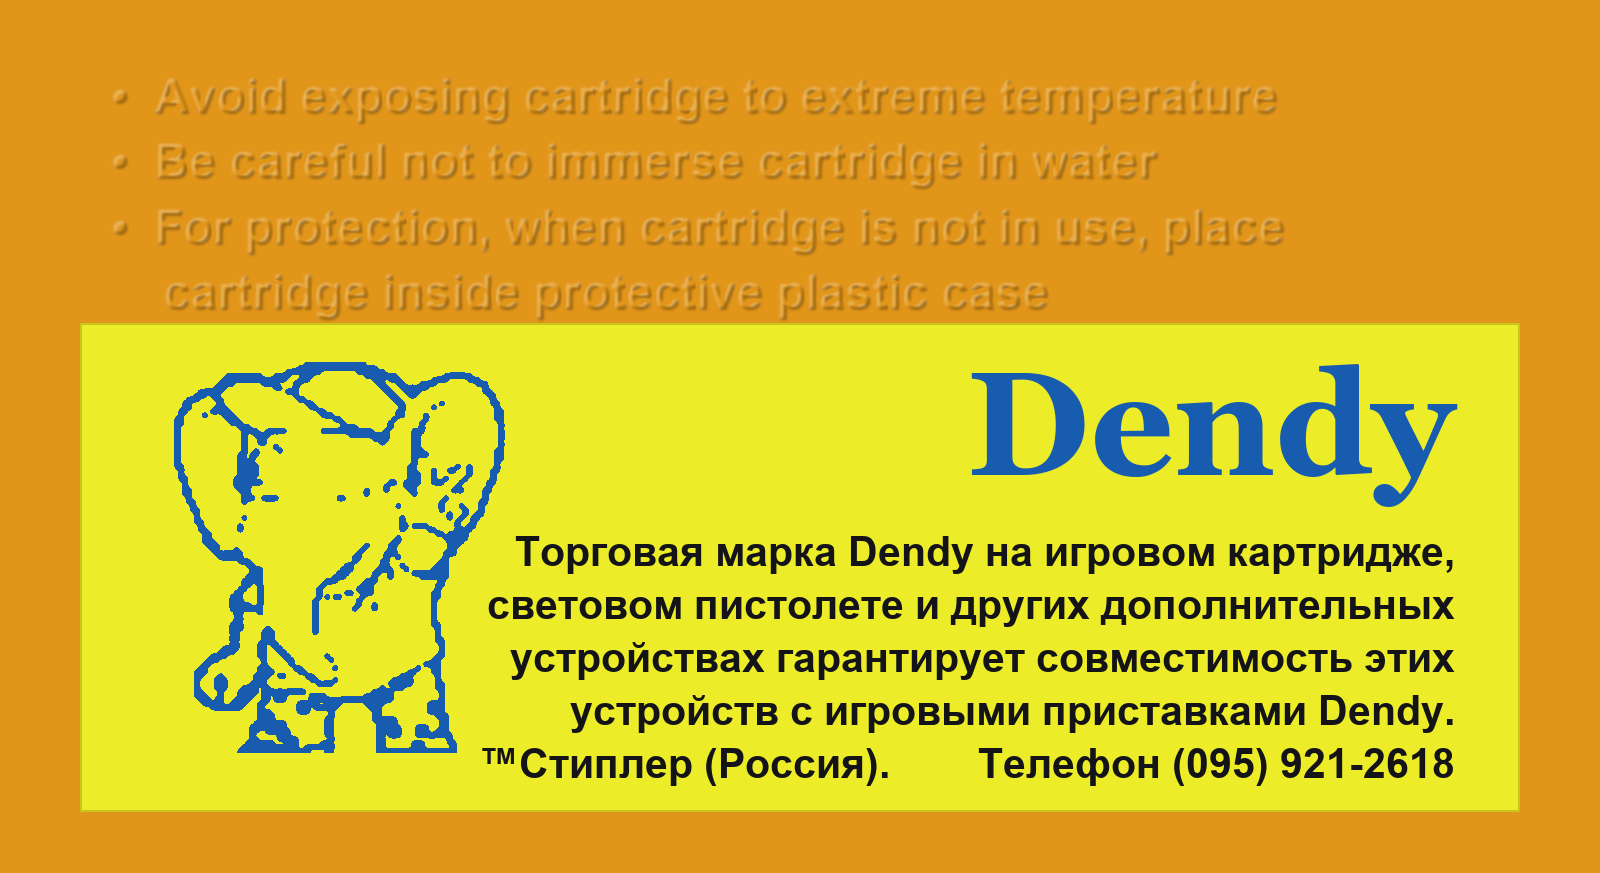
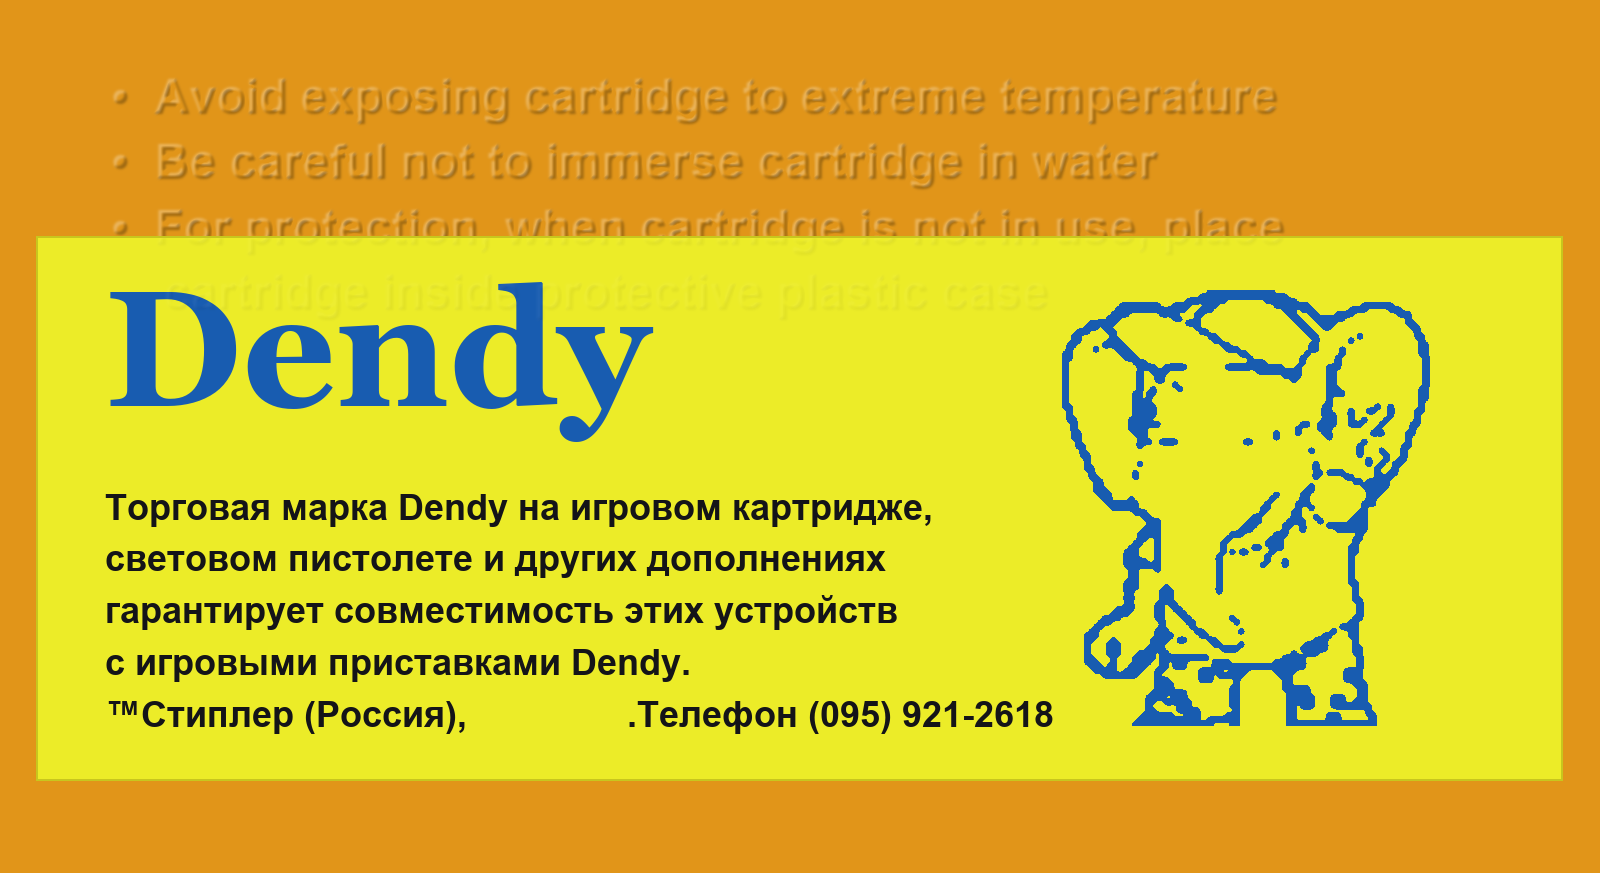
Dendy back panel: real sticker layout, optional private photo sticker
The redrawn Steepler sticker now follows the real layout: wordmark top
left, the notice below it with its real wording, and the elephant on the
right. It is sized as an 84 x 30 mm sticker. make_dendy_back_panel.py
--sticker pastes a supplied sticker image, and the shell builder's
--back-panel / --back-panel-credit install that privately built panel
with its credit recorded in the model's sourceReference. Photographic
stickers stay out of the repository.

Changed region(s): [[0.0, 0.2474, 1.0, 0.9278]]

diff --git a/scripts/make_dendy_back_panel.py b/scripts/make_dendy_back_panel.py
@@ -3,16 +3,19 @@
 Real Dendy cartridges carry moulded bulleted care text on the back panel with Steepler's
 yellow warranty sticker pasted over it: a blue line-art elephant, the blue
 "Dendy" wordmark, the Russian compatibility notice and Steepler's phone line.
-The thin sticker paper lets the relief beneath show faintly. This is a flat
-redraw of that layout in the shell colour, not a photograph.
+The thin sticker paper lets the relief beneath show faintly. By default the
+sticker is a flat redraw of the real layout (wordmark top left, notice below it,
+elephant on the right). --sticker pastes a supplied sticker image instead, such
+as a crop of a reference model's photographic texture; that output belongs with
+the private model, not in this repository.
 
 The panel spans PANEL_SIZE metres of the shell's back (see
 build_nes_cartridge_models.py); the PNG keeps that aspect.
 
-Usage: python -I make_dendy_back_panel.py OUT.png
+Usage: python -I make_dendy_back_panel.py OUT.png [--sticker STICKER.png]
 """
+import argparse
 from pathlib import Path
-import sys
 
 from PIL import Image, ImageChops, ImageDraw, ImageFilter, ImageFont
 
@@ -29,10 +32,10 @@ CARE = ['•  Avoid exposing cartridge to extreme temperature',
         '•  For protection, when cartridge is not in use, place',
         '    cartridge inside protective plastic case']
 NOTICE = ['Торговая марка Dendy на игровом картридже,',
-          'световом пистолете и других дополнительных',
-          'устройствах гарантирует совместимость этих',
-          'устройств с игровыми приставками Dendy.',
-          '™Стиплер (Россия).        Телефон (095) 921-2618']
+          'световом пистолете и других дополнениях',
+          'гарантирует совместимость этих устройств',
+          'с игровыми приставками Dendy.',
+          '™Стиплер (Россия),                .Телефон (095) 921-2618']
 
 
 def elephant_lineart(height):
@@ -57,14 +60,12 @@ def sticker(w, h):
     img = Image.new('RGB', (w, h), YELLOW)
     d = ImageDraw.Draw(img)
     art = elephant_lineart(round(h * 0.80))
-    img.paste(art, (round(w * .025), round(h * 0.08)), art)
+    img.paste(art, (w - art.width - round(w * .025), round(h * 0.10)), art)
     word = ImageFont.truetype(str(FONTS / 'georgiab.ttf'), round(h * .30))
-    tw = d.textlength('Dendy', font=word)
-    d.text((w - tw - w * .045, h * .035), 'Dendy', font=word, fill=BLUE)
-    body = ImageFont.truetype(str(FONTS / 'arialbd.ttf'), round(h * .084))
+    d.text((w * .045, h * .035), 'Dendy', font=word, fill=BLUE)
+    body = ImageFont.truetype(str(FONTS / 'arialbd.ttf'), round(h * .066))
     for i, line in enumerate(NOTICE):
-        lw = d.textlength(line, font=body)
-        d.text((w - lw - w * .045, h * (.42 + i * .108)), line, font=body, fill=INK)
+        d.text((w * .045, h * (.46 + i * .095)), line, font=body, fill=INK)
     return img
 
 
@@ -93,20 +94,28 @@ def emboss(base, height, strength):
 
 
 def main():
-    out = Path(sys.argv[1])
+    parser = argparse.ArgumentParser(description=__doc__)
+    parser.add_argument('output', type=Path)
+    parser.add_argument('--sticker', type=Path)
+    args = parser.parse_args()
     w = 1600
     h = round(w * PANEL_SIZE[1] / PANEL_SIZE[0])
     height = relief((w, h))
     panel = emboss(Image.new('RGB', (w, h), SHELL), height, .30)
-    # Pasted over the lower care lines; the caption stays visible above it.
-    sw, sh = round(w * .90), round(h * .56)
-    sx, sy = (w - sw) // 2, round(h * .37)
-    paper = sticker(sw, sh)
-    paper = emboss(paper, height.crop((sx, sy, sx + sw, sy + sh)), .05)
+    # An 84 x 30 mm sticker over the lower care lines; the first lines stay visible.
+    sw = round(w * .084 / PANEL_SIZE[0])
+    sh = round(sw * 30 / 84)
+    sx, sy = (w - sw) // 2, round(h * .27)
+    if args.sticker:
+        with Image.open(args.sticker) as supplied:
+            paper = supplied.convert('RGB').resize((sw, sh), Image.Resampling.LANCZOS)
+    else:
+        # A photograph already shows the relief through the paper; a redraw adds it.
+        paper = emboss(sticker(sw, sh), height.crop((sx, sy, sx + sw, sy + sh)), .05)
+        ImageDraw.Draw(paper).rectangle((0, 0, sw - 1, sh - 1), outline=(200, 198, 30), width=2)
     panel.paste(paper, (sx, sy))
-    ImageDraw.Draw(panel).rectangle((sx, sy, sx + sw - 1, sy + sh - 1), outline=(200, 198, 30), width=2)
-    panel.save(out, optimize=True)
-    print(out, panel.size)
+    panel.save(args.output, optimize=True)
+    print(args.output, panel.size)
 
 
 if __name__ == '__main__':

diff --git a/scripts/build_nes_cartridge_models.py b/scripts/build_nes_cartridge_models.py
@@ -7,7 +7,8 @@ its original unlicensed publisher photographs. The Dendy shell (the yellow
 owner-supplied photographs and public listing photos of real cartridges. Dimensions of nonstandard shells
 and internal PCB electronics are illustrative, not measured per-game replicas.
 No game artwork or reference photographs are embedded in these models; the
-Dendy back panel texture is a flat redraw (scripts/make_dendy_back_panel.py).
+Dendy back panel texture is a flat redraw (scripts/make_dendy_back_panel.py)
+unless --back-panel supplies a privately built one (with --back-panel-credit).
 """
 import argparse
 import hashlib
@@ -23,6 +24,7 @@ from mathutils import Vector
 
 
 BACK_PANEL = Path(__file__).resolve().parent / 'assets' / 'dendy-back-panel.png'
+BACK_PANEL_CREDIT = None
 STYLES = ['nintendo-3-gray', 'nintendo-5-gray', 'nintendo-3-gold',
           'nintendo-5-gold', 'tengen', 'camerica-gold', 'camerica-silver',
           'dreams-blue', 'dreams-black', 'ave-square', 'ave-angle',
@@ -327,15 +329,21 @@ def export_runtime(directory, style):
             'originalLicence':'Original parametric geometry; private reference use',
             'sha256':hashlib.sha256((directory/'source.glb').read_bytes()).hexdigest(),
             'limitations':'Nonstandard proportions are photograph-derived; PCB/components are illustrative, not a claimed per-ROM board.'}}
+    if textures and BACK_PANEL_CREDIT:
+        manifest['sourceReference']['textureCredit']=BACK_PANEL_CREDIT
     (directory/'model.mesh').write_bytes(payload)
     (directory/'model.json').write_text(json.dumps(manifest,indent=2),encoding='utf-8')
     return {'style':style,'triangles':sum(len(v)//3 for v in groups.values()),'surfaces':len(surfaces),'geometrySha256':manifest['geometrySha256']}
 
 
 def main():
+    global BACK_PANEL, BACK_PANEL_CREDIT
     parser=argparse.ArgumentParser(); parser.add_argument('--output',type=Path,required=True)
     parser.add_argument('--styles',nargs='*',choices=STYLES,default=STYLES)
+    parser.add_argument('--back-panel',type=Path,default=BACK_PANEL)
+    parser.add_argument('--back-panel-credit')
     args=parser.parse_args(sys.argv[sys.argv.index('--')+1:])
+    BACK_PANEL, BACK_PANEL_CREDIT=args.back_panel, args.back_panel_credit
     receipts=[]
     for style in args.styles:
         cartridge(style)
